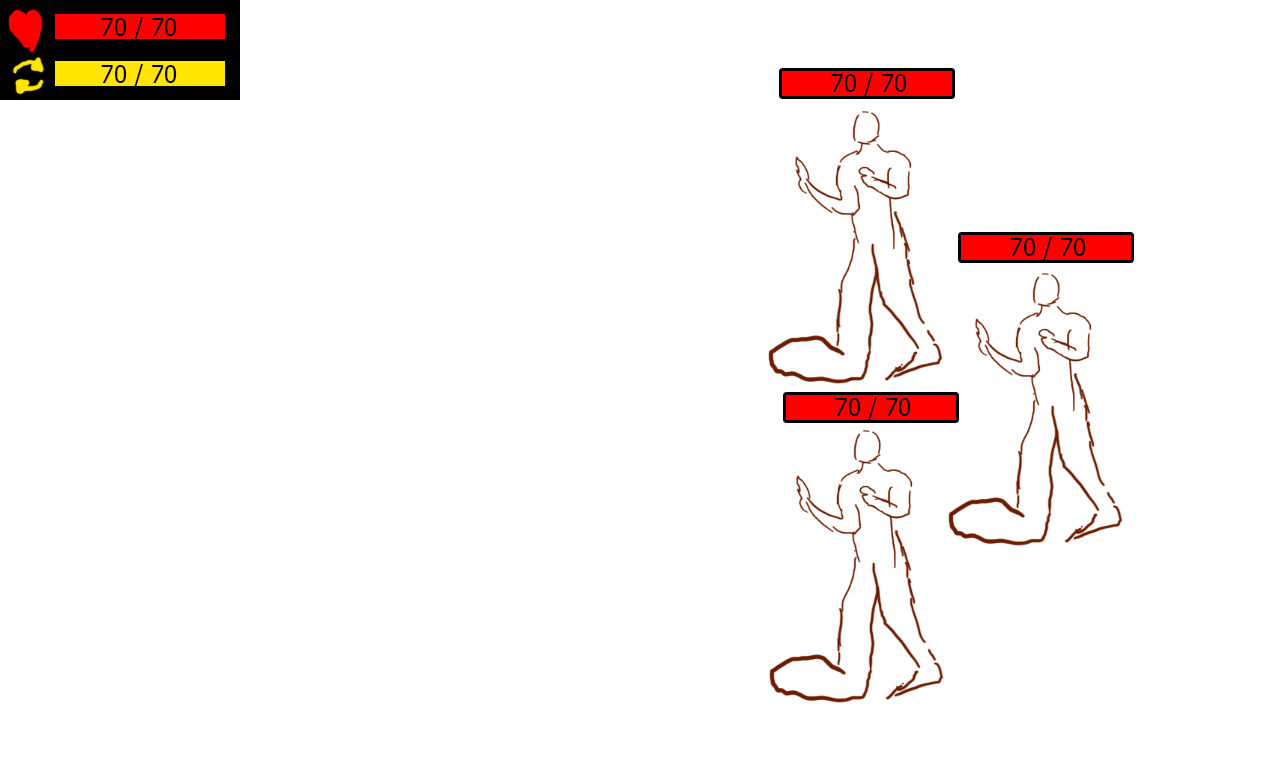
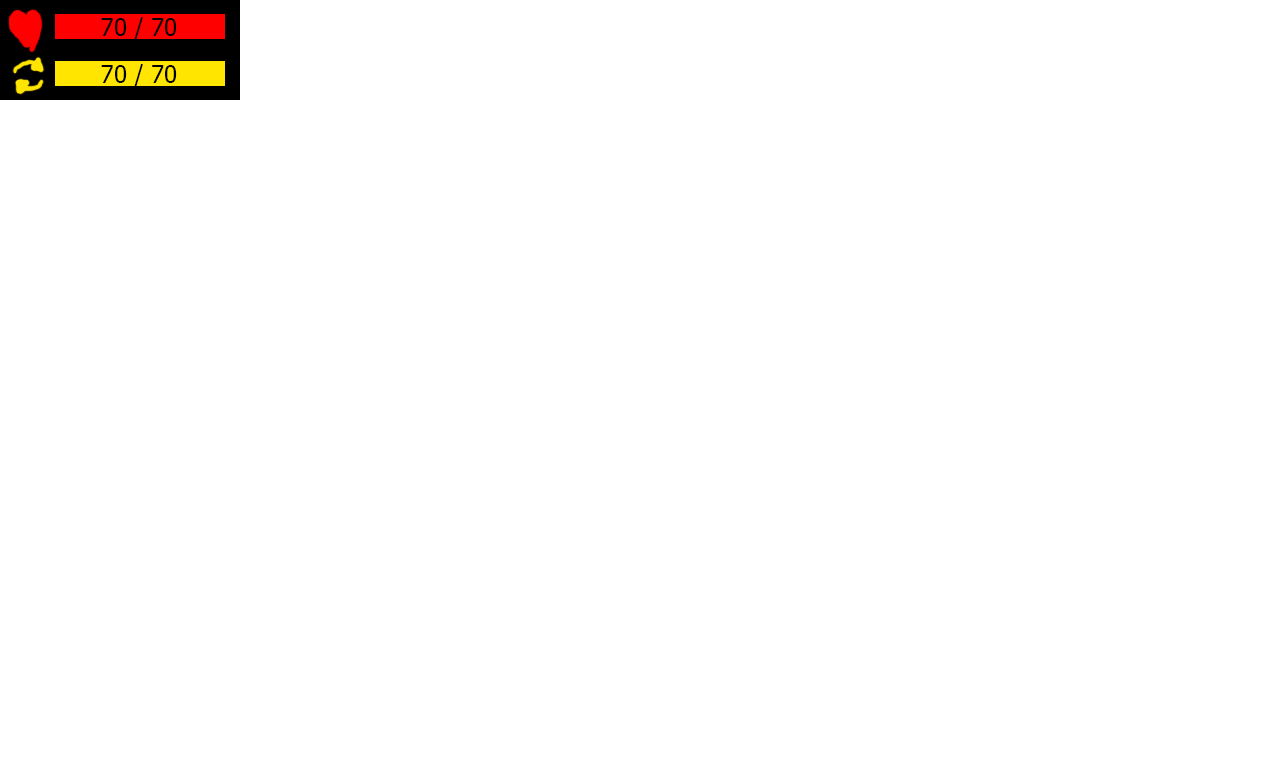
roboter

diff --git a/js/entities/skills.js b/js/entities/skills.js
@@ -5,11 +5,13 @@ function Attack( scene, actor ) {
 
 Attack.prototype.run = function( target ) {
 	this.scene.blocking.push( new MoveTwards(this.actor, target.x-100, target.y, this.actor.x, this.actor.y, 500 ));
+	var actorStats = this.actor.getStats();
 
-	var hit = ( 0.9 * this.actor.getStats().dex / target.getStats().dex ) > Math.random();
+	var hit = ( 0.9 * actorStats.dex / target.getStats().dex ) > Math.random();
 	if( hit ) {
+		var damage = actorStats.str + Math.round(( actorStats.str * 0.6 ) * (Math.random() - .5));
 		this.scene.blocking.push( new Animation(target.x, target.y, 'img/animation/strike1.png', 5, 100))
-		this.scene.blocking.push( new AnimationDamage( target, 555 ));
+		this.scene.blocking.push( new AnimationDamage( target, damage ));
 	} else {
 		this.scene.blocking.push(new AnimationText(target, 'Miss'));
 	}

diff --git a/js/entities/enemy.js b/js/entities/enemy.js
@@ -10,14 +10,13 @@ function Enemy( x, y, definition ) {
 		dex: 10,
 		int: 10
 	}
-	this.life = this.attrs.hp;
 
+	this.life = this.attrs.hp;
+	this.img = new sprite('img/characters/roboter.png');
 }
 
 Enemy.prototype.draw = function( ctx ) {
-	var w = 200; var h = 340;
-	ctx.fillStyle = '#6666FF';
-	ctx.fillRect(this.x-w/2, this.y-h/2, w, h);
+	this.img.center( ctx, this.x, this.y);
 }
 
 Enemy.prototype.getStats = function( ) {

diff --git a/js/lib/graphic.js b/js/lib/graphic.js
@@ -19,8 +19,9 @@ var g = {
 			'mock/button_character.png',
 			'mock/button_paywall.png',
 			'mock/encounter.png',
-			'mock/path.png'
-			],
+			'mock/path.png',
+			'img/characters/roboter.png'
+	],
 
 	add: function( url ) {
 		this.urls.push( url );
